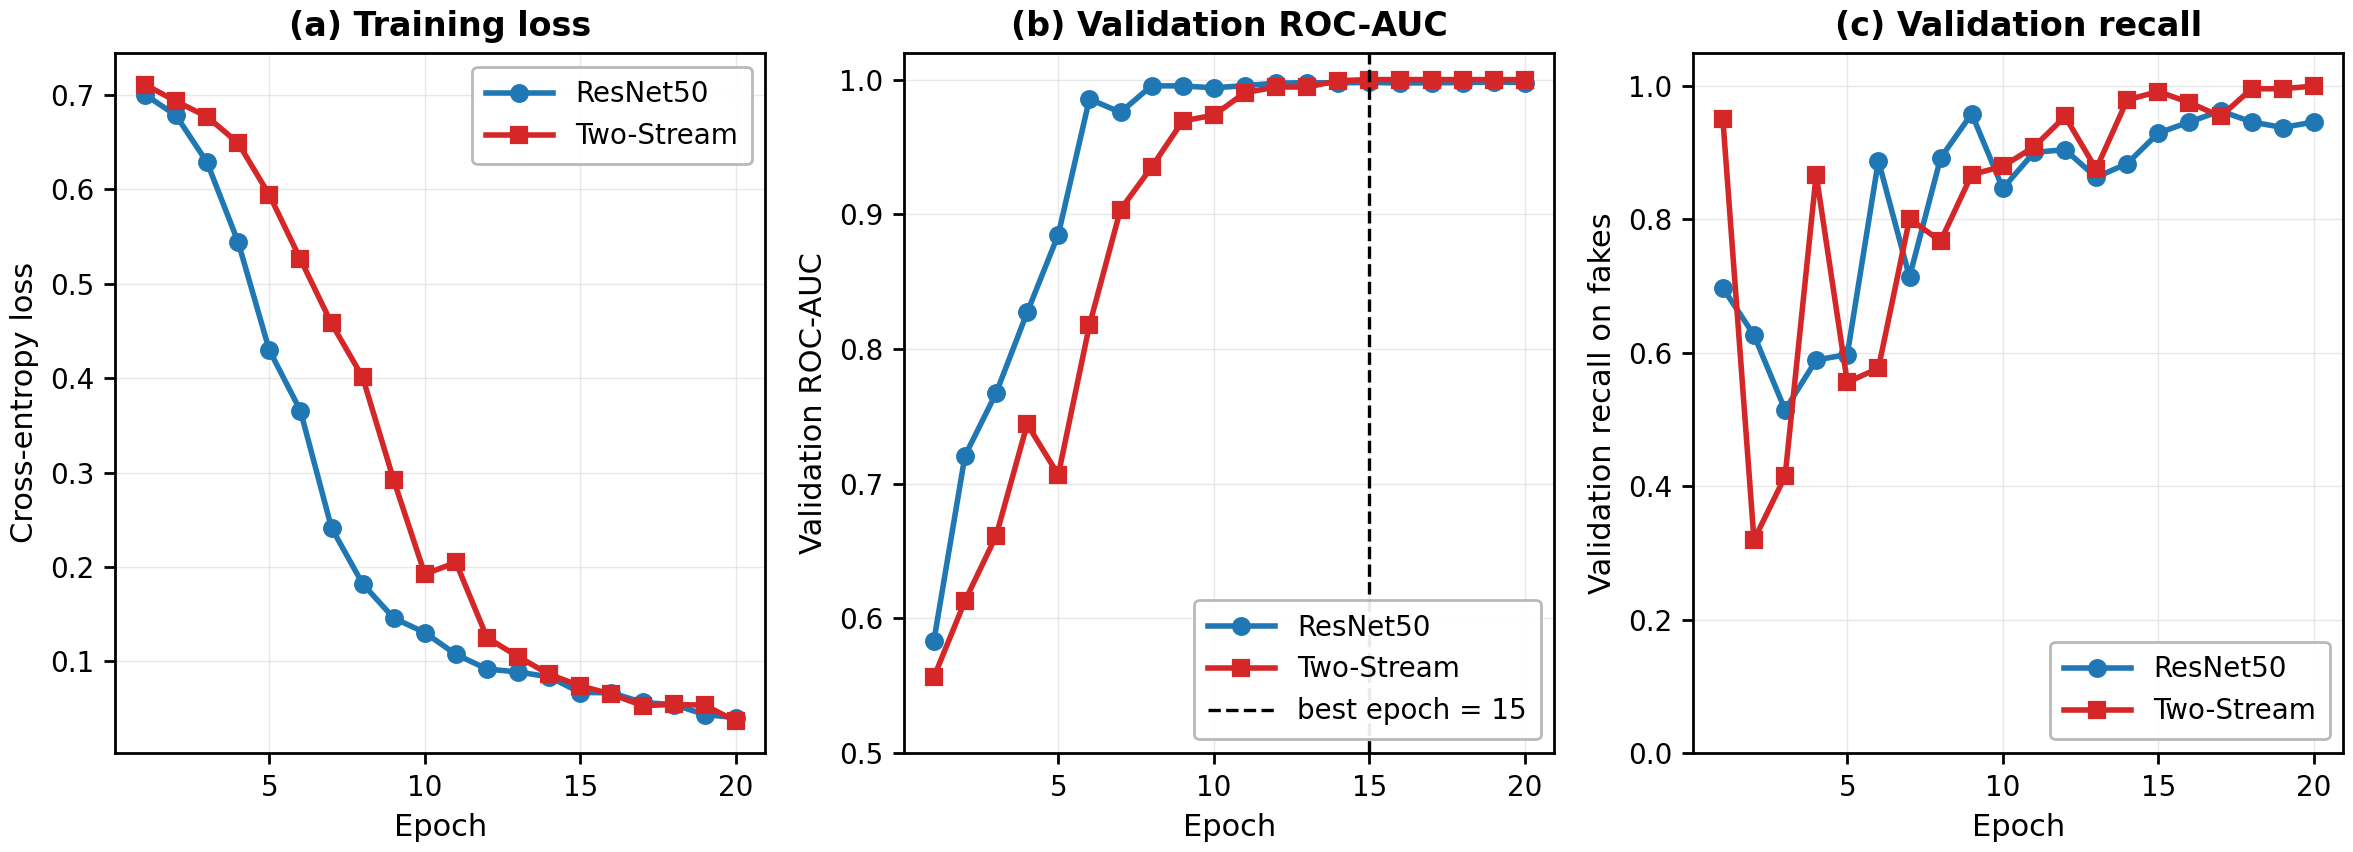
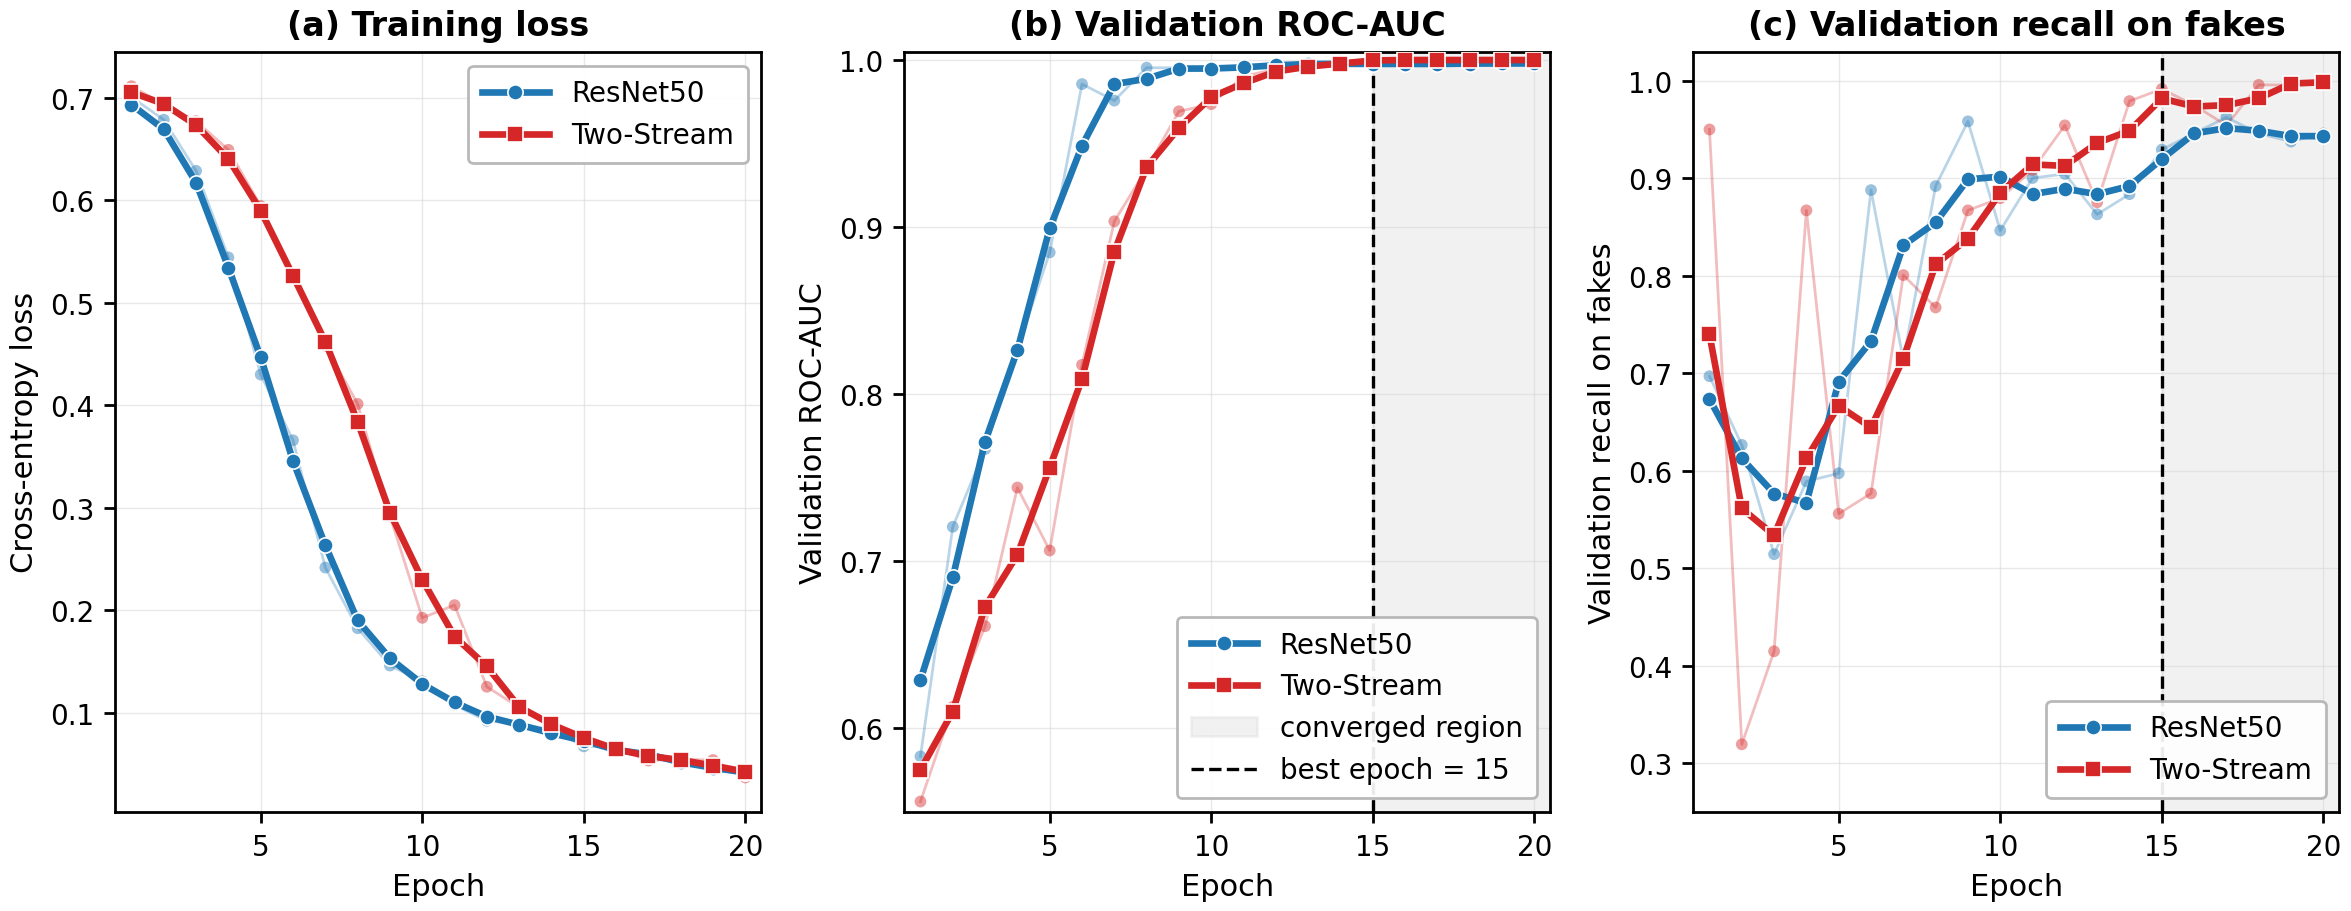
Smooth Stage-10 training curves: moving avg + faint raw + converged-region shade

diff --git a/research/10_missing_figures.py b/research/10_missing_figures.py
@@ -436,43 +436,74 @@ def figure_training_curves():
     rn = _read_train_csv(rn_csv)
     ts = _read_train_csv(ts_csv)
 
-    fig, axes = plt.subplots(1, 3, figsize=(DBL_W, 4.5))
+    def _smooth(y: np.ndarray, w: int = 3) -> np.ndarray:
+        """Centered moving-average with edge padding (preserves length)."""
+        if w <= 1 or len(y) < w:
+            return np.asarray(y, dtype=float)
+        pad = w // 2
+        ypad = np.pad(np.asarray(y, dtype=float), pad, mode="edge")
+        kernel = np.ones(w) / w
+        return np.convolve(ypad, kernel, mode="valid")
 
-    common_kw_a = dict(color=COLOR_RESNET,    linestyle=LS_RESNET,
-                       marker=MK_RESNET,    linewidth=2.0, markersize=6.0,
-                       label="ResNet50")
-    common_kw_b = dict(color=COLOR_TWOSTREAM, linestyle=LS_TWOSTREAM,
-                       marker=MK_TWOSTREAM, linewidth=2.0, markersize=6.0,
-                       label="Two-Stream")
+    fig, axes = plt.subplots(1, 3, figsize=(DBL_W, 4.8))
+
+    best_ts  = int(ts["epoch"][int(np.argmax(ts["val_roc_auc"]))])
+    best_rn  = int(rn["epoch"][int(np.argmax(rn["val_roc_auc"]))])
+    n_epochs = int(max(rn["epoch"].max(), ts["epoch"].max()))
+
+    def _plot_pair(ax, ykey, smooth_w=3):
+        # ResNet50: faint raw + bold smoothed
+        ax.plot(rn["epoch"], rn[ykey], color=COLOR_RESNET,
+                linestyle="-", linewidth=1.0, alpha=0.30, zorder=2)
+        ax.scatter(rn["epoch"], rn[ykey], color=COLOR_RESNET,
+                   s=18, alpha=0.45, zorder=3, edgecolors="none")
+        ax.plot(rn["epoch"], _smooth(rn[ykey], smooth_w),
+                color=COLOR_RESNET, linestyle="-", linewidth=2.4,
+                marker=MK_RESNET, markersize=5.5,
+                markeredgecolor="white", markeredgewidth=0.6,
+                label="ResNet50", zorder=5)
+        # Two-Stream
+        ax.plot(ts["epoch"], ts[ykey], color=COLOR_TWOSTREAM,
+                linestyle="-", linewidth=1.0, alpha=0.30, zorder=2)
+        ax.scatter(ts["epoch"], ts[ykey], color=COLOR_TWOSTREAM,
+                   s=18, alpha=0.45, zorder=3, edgecolors="none")
+        ax.plot(ts["epoch"], _smooth(ts[ykey], smooth_w),
+                color=COLOR_TWOSTREAM, linestyle="-", linewidth=2.4,
+                marker=MK_TWOSTREAM, markersize=5.5,
+                markeredgecolor="white", markeredgewidth=0.6,
+                label="Two-Stream", zorder=5)
 
     # (a) train loss
     ax = axes[0]
-    ax.plot(rn["epoch"], rn["train_loss"], **common_kw_a)
-    ax.plot(ts["epoch"], ts["train_loss"], **common_kw_b)
+    _plot_pair(ax, "train_loss", smooth_w=3)
     ax.set_xlabel("Epoch"); ax.set_ylabel("Cross-entropy loss")
     ax.set_title("(a) Training loss")
     ax.legend(loc="upper right")
+    ax.set_xlim(0.5, n_epochs + 0.5)
 
-    # (b) val ROC-AUC
+    # (b) val ROC-AUC (zoomed to show convergence shape)
     ax = axes[1]
-    ax.plot(rn["epoch"], rn["val_roc_auc"], **common_kw_a)
-    ax.plot(ts["epoch"], ts["val_roc_auc"], **common_kw_b)
-    best_ts = int(ts["epoch"][int(np.argmax(ts["val_roc_auc"]))])
+    _plot_pair(ax, "val_roc_auc", smooth_w=3)
+    ax.axvspan(best_ts, n_epochs + 0.5, color="0.85", alpha=0.35,
+               zorder=1, label="converged region")
     ax.axvline(best_ts, linestyle="--", color="black", linewidth=1.2,
-               label=f"best epoch = {best_ts}")
+               label=f"best epoch = {best_ts}", zorder=4)
     ax.set_xlabel("Epoch"); ax.set_ylabel("Validation ROC-AUC")
     ax.set_title("(b) Validation ROC-AUC")
     ax.legend(loc="lower right")
-    ax.set_ylim(0.5, 1.02)
+    ax.set_xlim(0.5, n_epochs + 0.5)
+    ax.set_ylim(0.55, 1.005)
 
     # (c) val recall
     ax = axes[2]
-    ax.plot(rn["epoch"], rn["val_recall"], **common_kw_a)
-    ax.plot(ts["epoch"], ts["val_recall"], **common_kw_b)
+    _plot_pair(ax, "val_recall", smooth_w=3)
+    ax.axvspan(best_ts, n_epochs + 0.5, color="0.85", alpha=0.35, zorder=1)
+    ax.axvline(best_ts, linestyle="--", color="black", linewidth=1.2, zorder=4)
     ax.set_xlabel("Epoch"); ax.set_ylabel("Validation recall on fakes")
-    ax.set_title("(c) Validation recall")
+    ax.set_title("(c) Validation recall on fakes")
     ax.legend(loc="lower right")
-    ax.set_ylim(0, 1.05)
+    ax.set_xlim(0.5, n_epochs + 0.5)
+    ax.set_ylim(0.25, 1.03)
 
     fig.tight_layout()
     fig.savefig(OUT / "10_training_curves.png")
